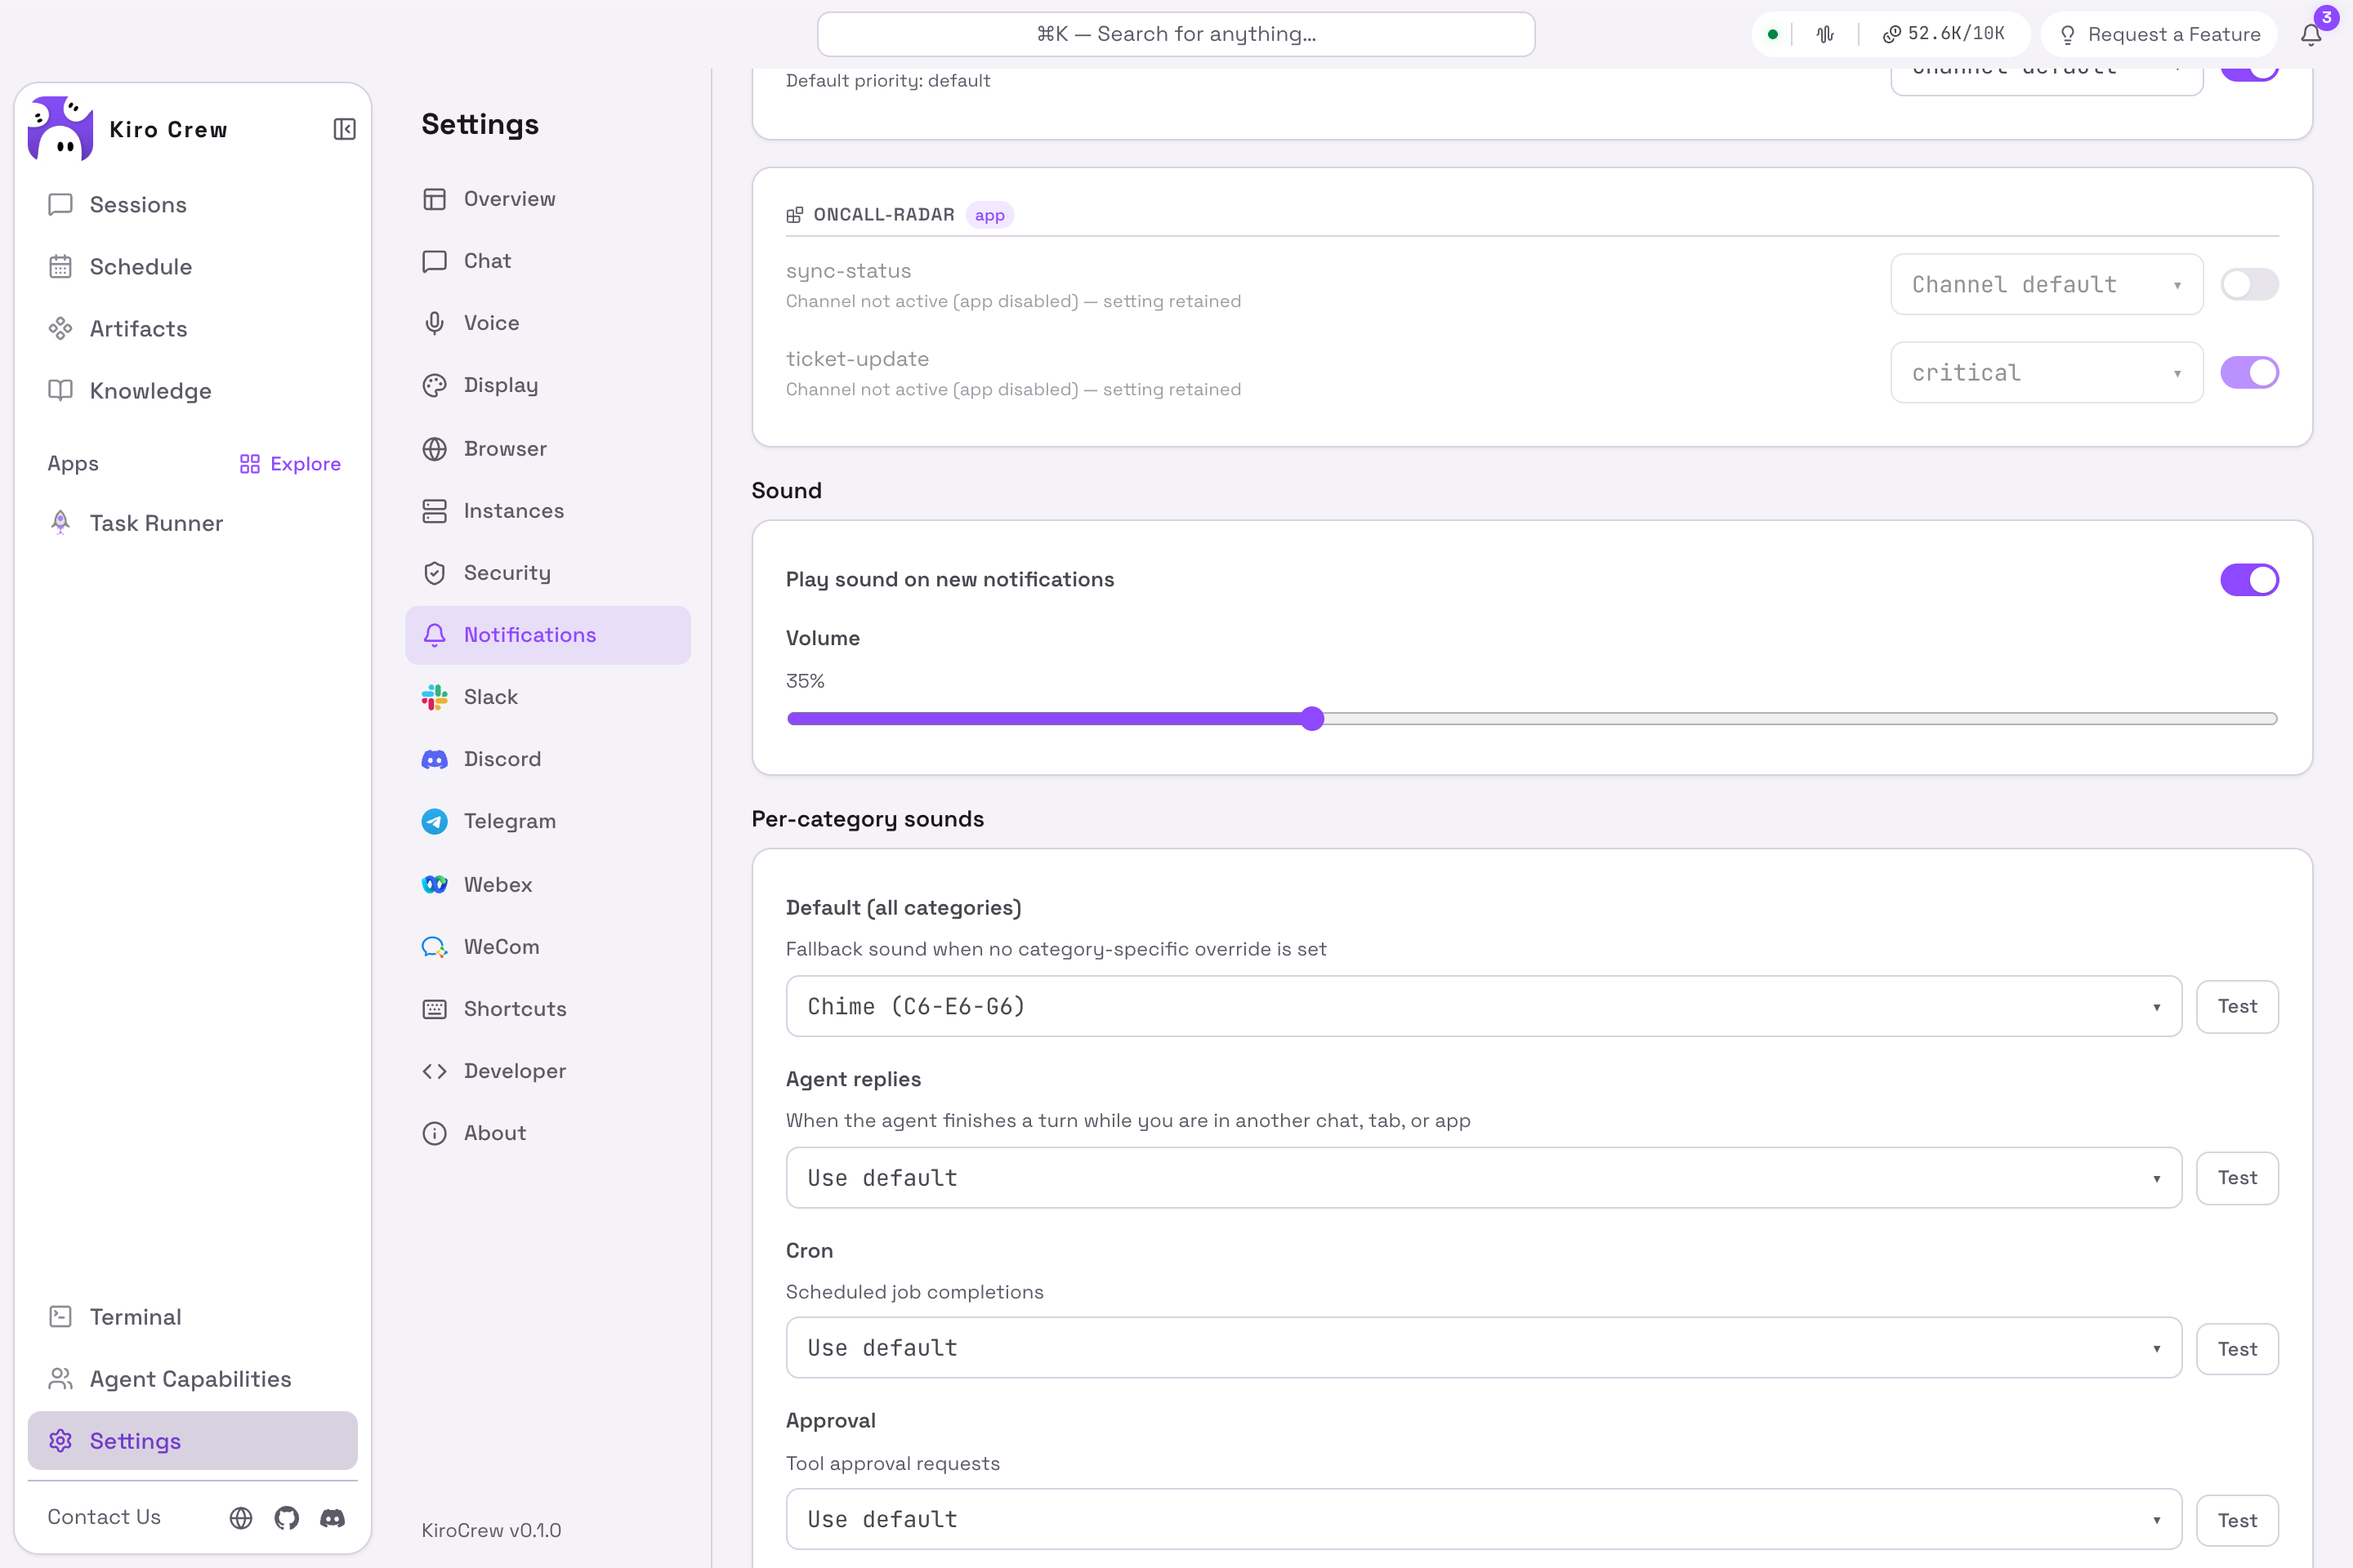
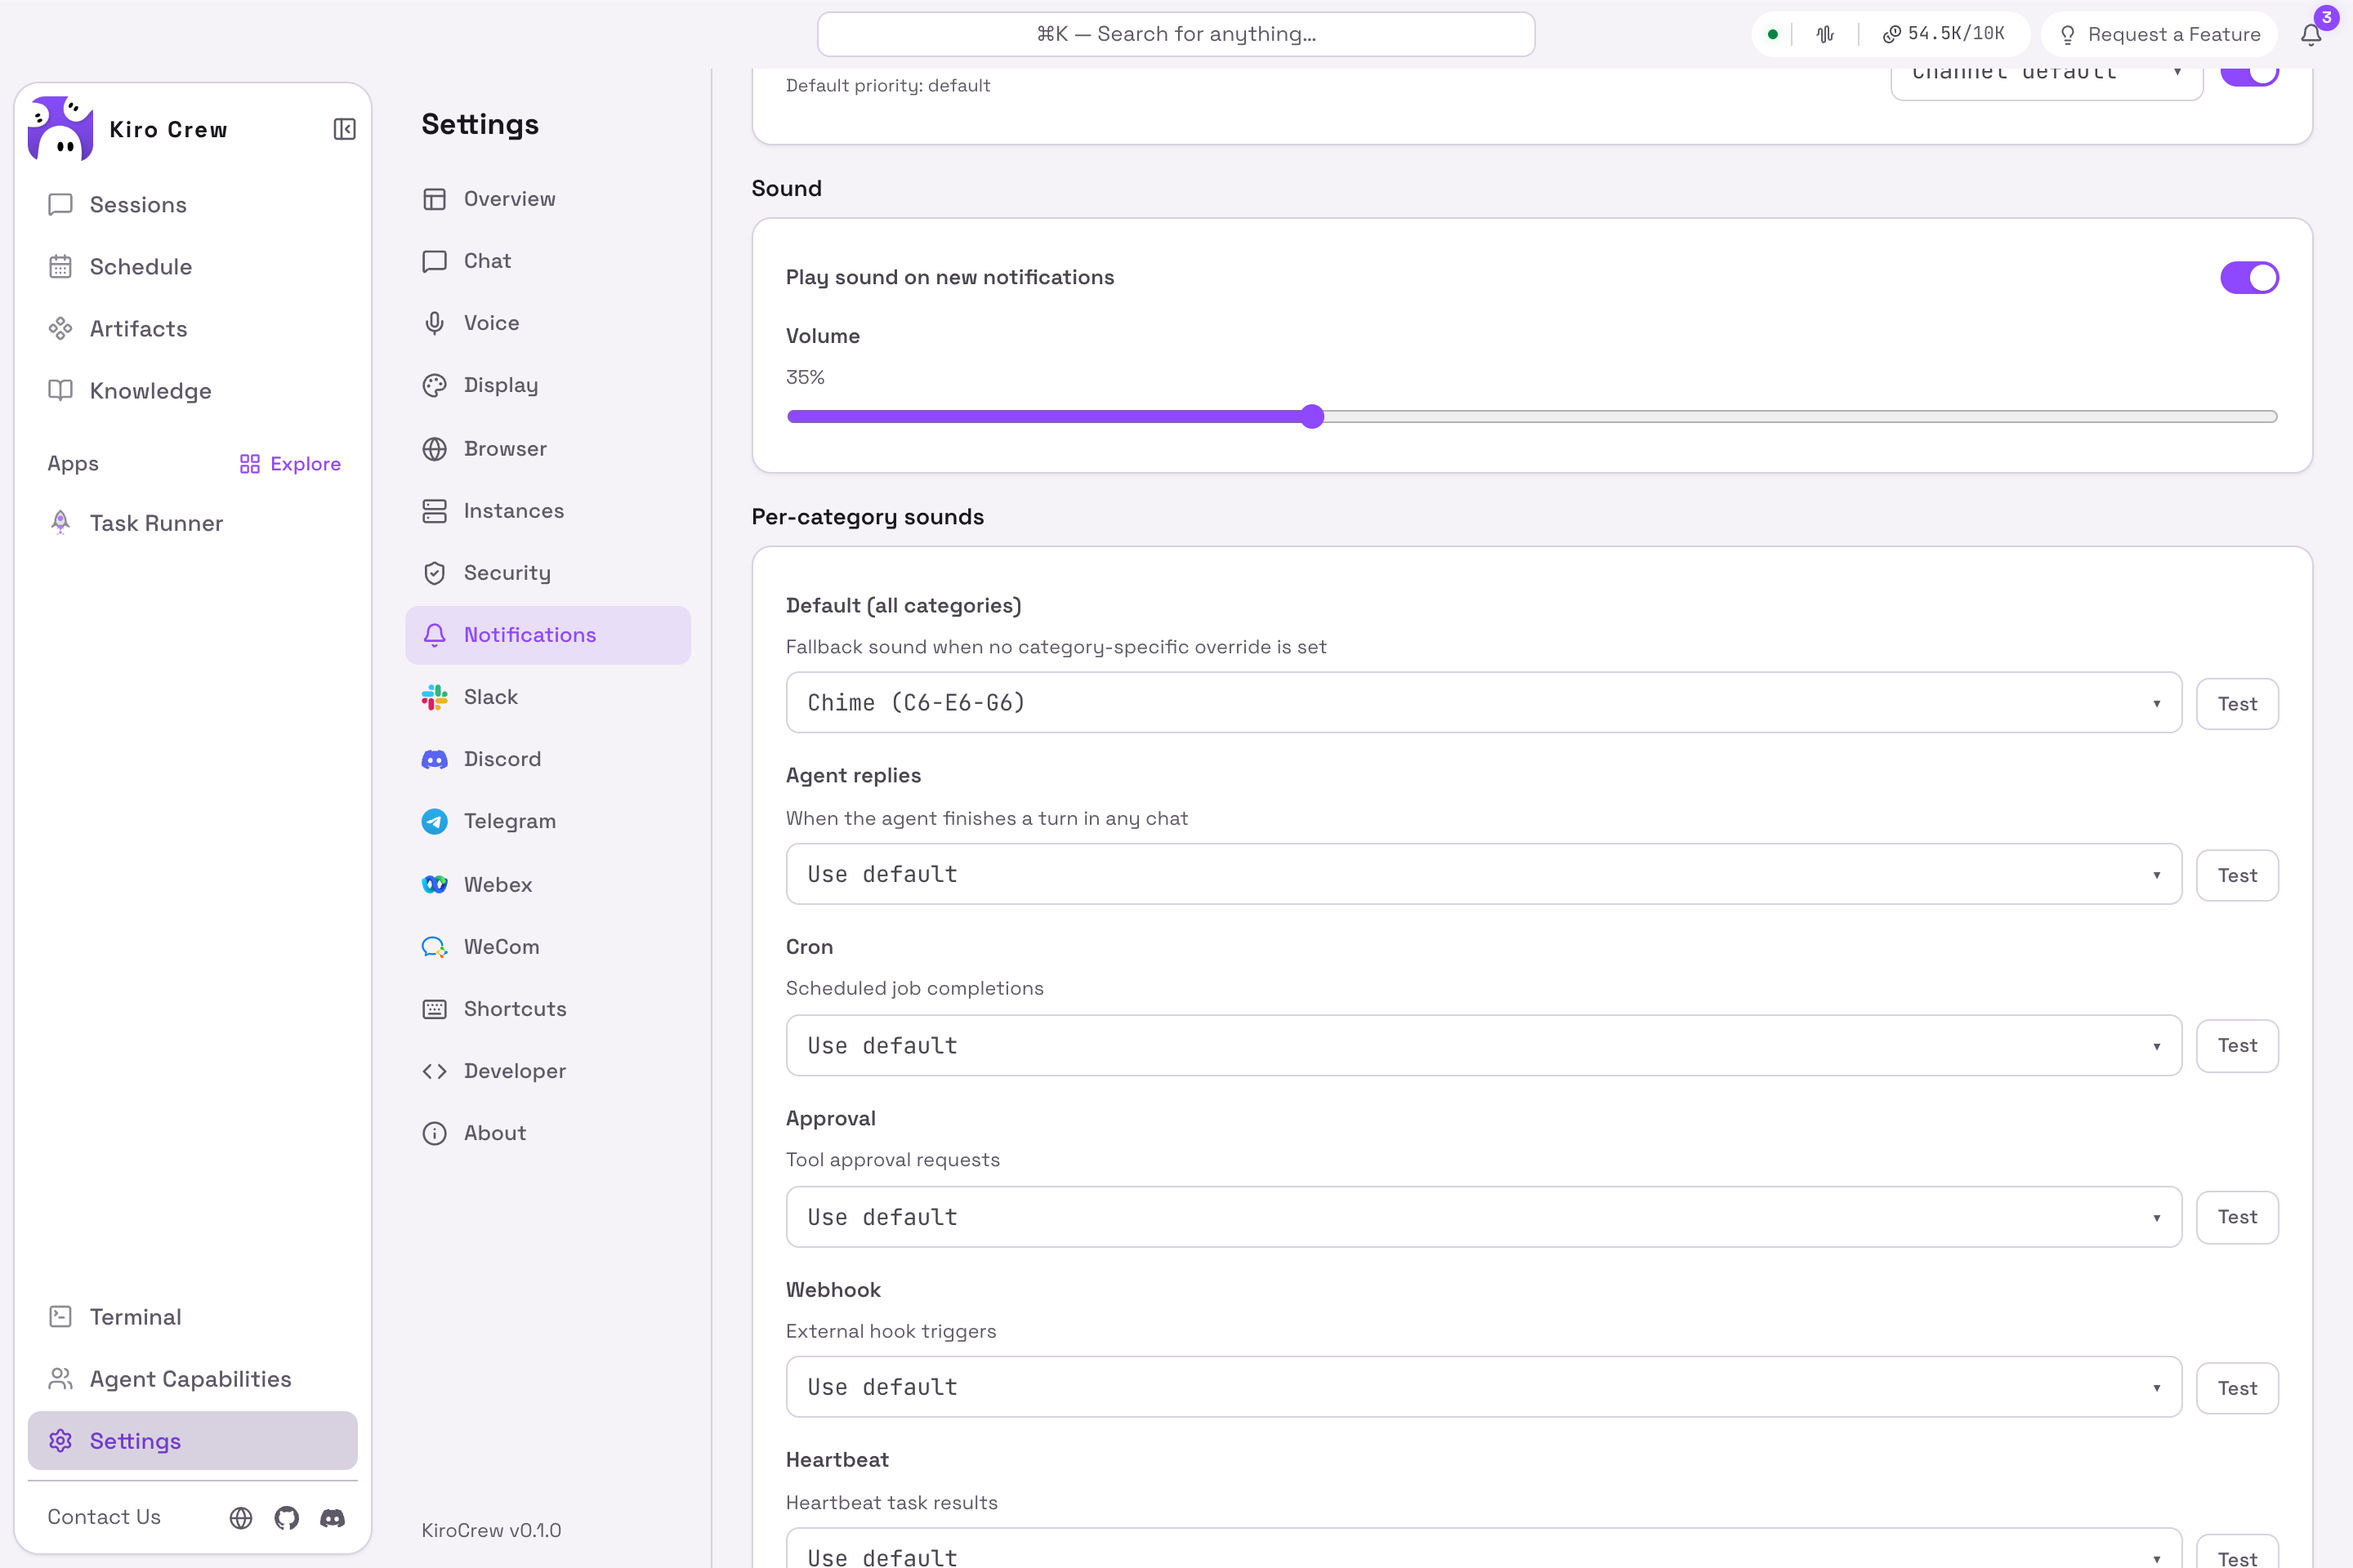
feat(notifications): chime on every finished turn, not only when away (#414)
Drop the attention gating (background slot / hidden tab / unfocused
window) from the turn-complete chime: every real chat_done now chimes,
active chat included, so the user always gets an audible cue when any
session finishes. Slot-less events and reconnect catch-up replays stay
suppressed to prevent chime storms. Users silence it via the Agent
replies category or the main sound toggle.

diff --git a/website/src/test/notificationEvent.test.ts b/website/src/test/notificationEvent.test.ts
@@ -1,42 +1,22 @@
 import { describe, it, expect } from 'vitest'
 import { shouldChimeOnTurnDone, TURN_DONE_KIND } from '../hooks/notificationEvent'
 
-// Policy: chime only when the user isn't watching the reply land.
-// Watching = the finishing slot is active AND the tab is visible AND the
-// window is focused. Reconnect replays and slot-less events never chime.
-
-const watching = { slot: 's1', activeSlot: 's1', reconnecting: false, hidden: false, focused: true }
+// Policy: every real turn completion chimes — active chat or background.
+// Only slot-less events and reconnect catch-up replays are suppressed.
 
 describe('shouldChimeOnTurnDone', () => {
-  it('does not chime when actively watching the finishing chat', () => {
-    expect(shouldChimeOnTurnDone(watching)).toBe(false)
-  })
-
-  it('chimes when the turn finished in a background slot', () => {
-    expect(shouldChimeOnTurnDone({ ...watching, activeSlot: 's2' })).toBe(true)
-  })
-
-  it('chimes when the tab is hidden', () => {
-    expect(shouldChimeOnTurnDone({ ...watching, hidden: true })).toBe(true)
-  })
-
-  it('chimes when the window is unfocused (user in another app)', () => {
-    expect(shouldChimeOnTurnDone({ ...watching, focused: false })).toBe(true)
+  it('chimes when a turn finishes (active or background — no attention gating)', () => {
+    expect(shouldChimeOnTurnDone({ slot: 's1', reconnecting: false })).toBe(true)
   })
 
   it('never chimes during reconnect catch-up replay', () => {
-    expect(shouldChimeOnTurnDone({ ...watching, activeSlot: 's2', reconnecting: true })).toBe(false)
-    expect(shouldChimeOnTurnDone({ ...watching, hidden: true, reconnecting: true })).toBe(false)
+    expect(shouldChimeOnTurnDone({ slot: 's1', reconnecting: true })).toBe(false)
   })
 
   it('never chimes for slot-less events', () => {
-    expect(shouldChimeOnTurnDone({ ...watching, slot: undefined, hidden: true })).toBe(false)
-    expect(shouldChimeOnTurnDone({ ...watching, slot: null, focused: false })).toBe(false)
-    expect(shouldChimeOnTurnDone({ ...watching, slot: '', activeSlot: 's2' })).toBe(false)
-  })
-
-  it('chimes for a background slot even when null activeSlot', () => {
-    expect(shouldChimeOnTurnDone({ ...watching, activeSlot: null })).toBe(true)
+    expect(shouldChimeOnTurnDone({ slot: undefined, reconnecting: false })).toBe(false)
+    expect(shouldChimeOnTurnDone({ slot: null, reconnecting: false })).toBe(false)
+    expect(shouldChimeOnTurnDone({ slot: '', reconnecting: false })).toBe(false)
   })
 })
 

diff --git a/website/src/hooks/notificationEvent.ts b/website/src/hooks/notificationEvent.ts
@@ -15,20 +15,17 @@ export interface McNotificationDetail {
 export const TURN_DONE_KIND = 'turn' as const
 
 /**
- * Whether a finished turn warrants a chime. Principle: never chime at a user
- * who is already watching the reply land. Chime only when attention is
- * elsewhere — the turn finished in a background chat, the tab is hidden, or
- * the window is unfocused. Reconnect catch-up replays never chime (mirrors the
- * markSlotUnread suppression on the same event).
+ * Whether a finished turn warrants a chime. Policy: every real turn
+ * completion chimes — active chat or background, focused or not — so the
+ * user always gets an audible cue when any session finishes. Two
+ * suppressions remain: slot-less events (no real turn behind them) and
+ * reconnect catch-up replays (mirrors the markSlotUnread suppression;
+ * stale completions replayed on reconnect must not chime-storm — the
+ * unread badges already cover them).
  */
 export function shouldChimeOnTurnDone(opts: {
   slot: string | undefined | null
-  activeSlot: string | null
   reconnecting: boolean
-  hidden: boolean
-  focused: boolean
 }): boolean {
-  if (!opts.slot || opts.reconnecting) return false
-  if (opts.slot !== opts.activeSlot) return true
-  return opts.hidden || !opts.focused
+  return !!opts.slot && !opts.reconnecting
 }

diff --git a/website/src/hooks/useWebSocket.ts b/website/src/hooks/useWebSocket.ts
@@ -531,17 +531,14 @@ export function useWebSocket() {
             flushChunks()
             if (data.slot) chunkBufRef.current.delete(data.slot)
             dispatch(sseChatMessage({ ...data, role: '_done' }))
-            // Turn-complete chime: sound-only (no feed entry, no toast). Plays
-            // only when the user isn't watching the reply land — background
-            // slot, hidden tab, or unfocused window — and never during
-            // reconnect catch-up replay. Preset/volume/mute resolve in
-            // useNotificationSound via the 'turn' category.
+            // Turn-complete chime: sound-only (no feed entry, no toast).
+            // Plays on every real turn completion — active or background
+            // chat — and never during reconnect catch-up replay.
+            // Preset/volume/mute resolve in useNotificationSound via the
+            // 'turn' category.
             if (shouldChimeOnTurnDone({
               slot: data.slot,
-              activeSlot: store.getState().chat.activeSlot,
               reconnecting: reconnectingRef.current,
-              hidden: document.hidden,
-              focused: document.hasFocus(),
             })) {
               try {
                 const detail: McNotificationDetail = { kind: TURN_DONE_KIND }

diff --git a/website/src/pages/settings/NotificationsPanel.tsx b/website/src/pages/settings/NotificationsPanel.tsx
@@ -20,7 +20,7 @@ const OVERRIDE_LABELS: string[] = ['Use default', ...PRESET_OPTIONS.map(p => PRE
 
 const CATEGORY_ROWS: { key: SoundCategory; label: string; description: string }[] = [
   { key: 'all',        label: 'Default (all categories)', description: 'Fallback sound when no category-specific override is set' },
-  { key: 'turn',       label: 'Agent replies', description: 'When the agent finishes a turn while you are in another chat, tab, or app' },
+  { key: 'turn',       label: 'Agent replies', description: 'When the agent finishes a turn in any chat' },
   { key: 'cron',       label: 'Cron',       description: 'Scheduled job completions' },
   { key: 'approval',   label: 'Approval',   description: 'Tool approval requests' },
   { key: 'hook',       label: 'Webhook',    description: 'External hook triggers' },

diff --git a/docs/system-specs/features/turn-complete-chime.md b/docs/system-specs/features/turn-complete-chime.md
@@ -1,16 +1,15 @@
 # Turn-Complete Chime
 
-When the agent finishes a turn and the user is not watching, the dashboard plays a notification sound.
+When the agent finishes a turn, the dashboard plays a notification sound.
 
 ## Policy
 
-Chime only when attention is elsewhere. A turn completion (`chat_done` WS event) plays a sound when ALL of:
+Every real turn completion chimes — active chat or background, focused window or not. A turn completion (`chat_done` WS event) plays a sound when:
 
-- the event carries a `slot`, and
-- the client is not in reconnect catch-up replay (`reconnectingRef`, same suppression as `markSlotUnread`), and
-- the user is not watching the reply land: the finishing slot is not the active slot, OR the tab is hidden (`document.hidden`), OR the window is unfocused (`!document.hasFocus()`).
+- the event carries a `slot` (slot-less events have no real turn behind them), and
+- the client is not in reconnect catch-up replay (`reconnectingRef`, same suppression as `markSlotUnread`) — stale completions replayed on reconnect must not chime-storm; the unread badges already cover them.
 
-A turn finishing in the active chat of a focused, visible window is silent — the user saw it stream.
+Users who want silence set the "Agent replies" category to Silent (or use the main enable toggle).
 
 The decision is the pure function `shouldChimeOnTurnDone()` in `website/src/hooks/notificationEvent.ts`, unit-tested in `website/src/test/notificationEvent.test.ts`.
 
@@ -19,10 +18,11 @@ The decision is the pure function `shouldChimeOnTurnDone()` in `website/src/hook
 Sound-only path. No Redux notification, no toast, no badge, no feed entry:
 
 - `useWebSocket.ts` `chat_done` handler dispatches the window event `MC_NOTIFICATION_EVENT` with `kind: TURN_DONE_KIND` (`'turn'`) when the policy passes.
-- `useNotificationSound.ts` (already mounted app-wide) resolves the preset via the `turn` category. `'turn'` is a member of `SOUND_CATEGORIES`; with no per-category override it falls back to the `all` default (chime). Its existing 300 ms rate-limit dedupes bursts (e.g. several background slots finishing together).
+- `useNotificationSound.ts` (already mounted app-wide) resolves the preset via the `turn` category. `'turn'` is a member of `SOUND_CATEGORIES`; with no per-category override it falls back to the `all` default (chime). Its existing 300 ms rate-limit dedupes bursts (e.g. several sessions finishing together).
 - Settings: Notifications panel row "Agent replies" — per-category preset override incl. Silent, same chrome as other categories. The main enable toggle and volume slider apply.
 
 ## Non-goals
 
 - Native OS banner for turn completion (feed/banner behavior is owned by the notification bus; this feature is a sound cue only).
 - Backend involvement: the `turn` kind is synthesized in the frontend and never appears in the notifications feed or `~/.kirocrew` state.
+- Attention gating (hidden tab / unfocused window / background-slot heuristics): the chime is an unconditional audible cue for any finished session; per-user silence lives in the sound settings, not in focus heuristics.

diff --git a/docs/system-specs/index.md b/docs/system-specs/index.md
@@ -55,7 +55,7 @@ Load relevant module specs before making changes to that component. Read common 
 | [inline-action-buttons](features/inline-action-buttons.md) | Interactive buttons in chat messages |
 | [prompt-optimizer](features/prompt-optimizer.md) | Native pre-send prompt optimization (Cmd+Shift+Enter) |
 | [stt-streaming](features/stt-streaming.md) | Live speech-to-text via AWS Transcribe Streaming |
-| [turn-complete-chime](features/turn-complete-chime.md) | Notification sound when the agent finishes a turn while the user is away or in another chat |
+| [turn-complete-chime](features/turn-complete-chime.md) | Notification sound whenever the agent finishes a turn in any chat |
 | [turn-stats-footer](features/turn-stats-footer.md) | Per-turn elapsed time + credits footer under assistant messages (kiro-cli parity) |
 | [voice-streaming](features/voice-streaming.md) | Real-time Polly TTS with streaming auto-speak and interrupt |
 | [workflow-chat-cards](features/workflow-chat-cards.md) | Inline launch + completion cards for workflows in chat, clickable to the Workflows panel |
